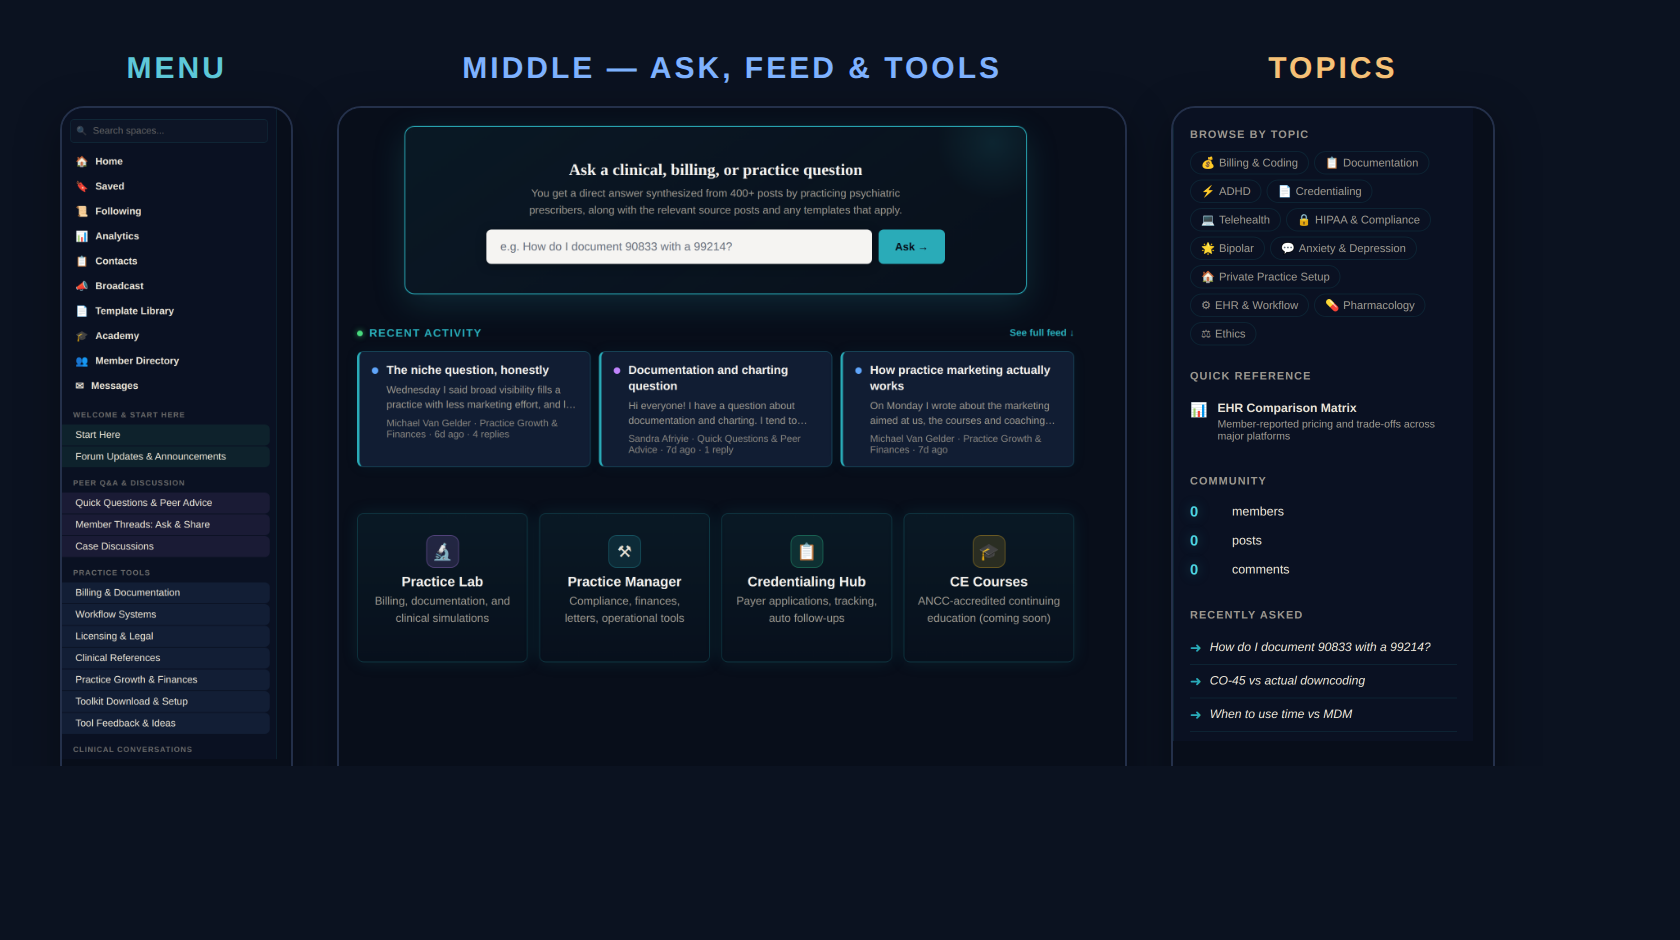
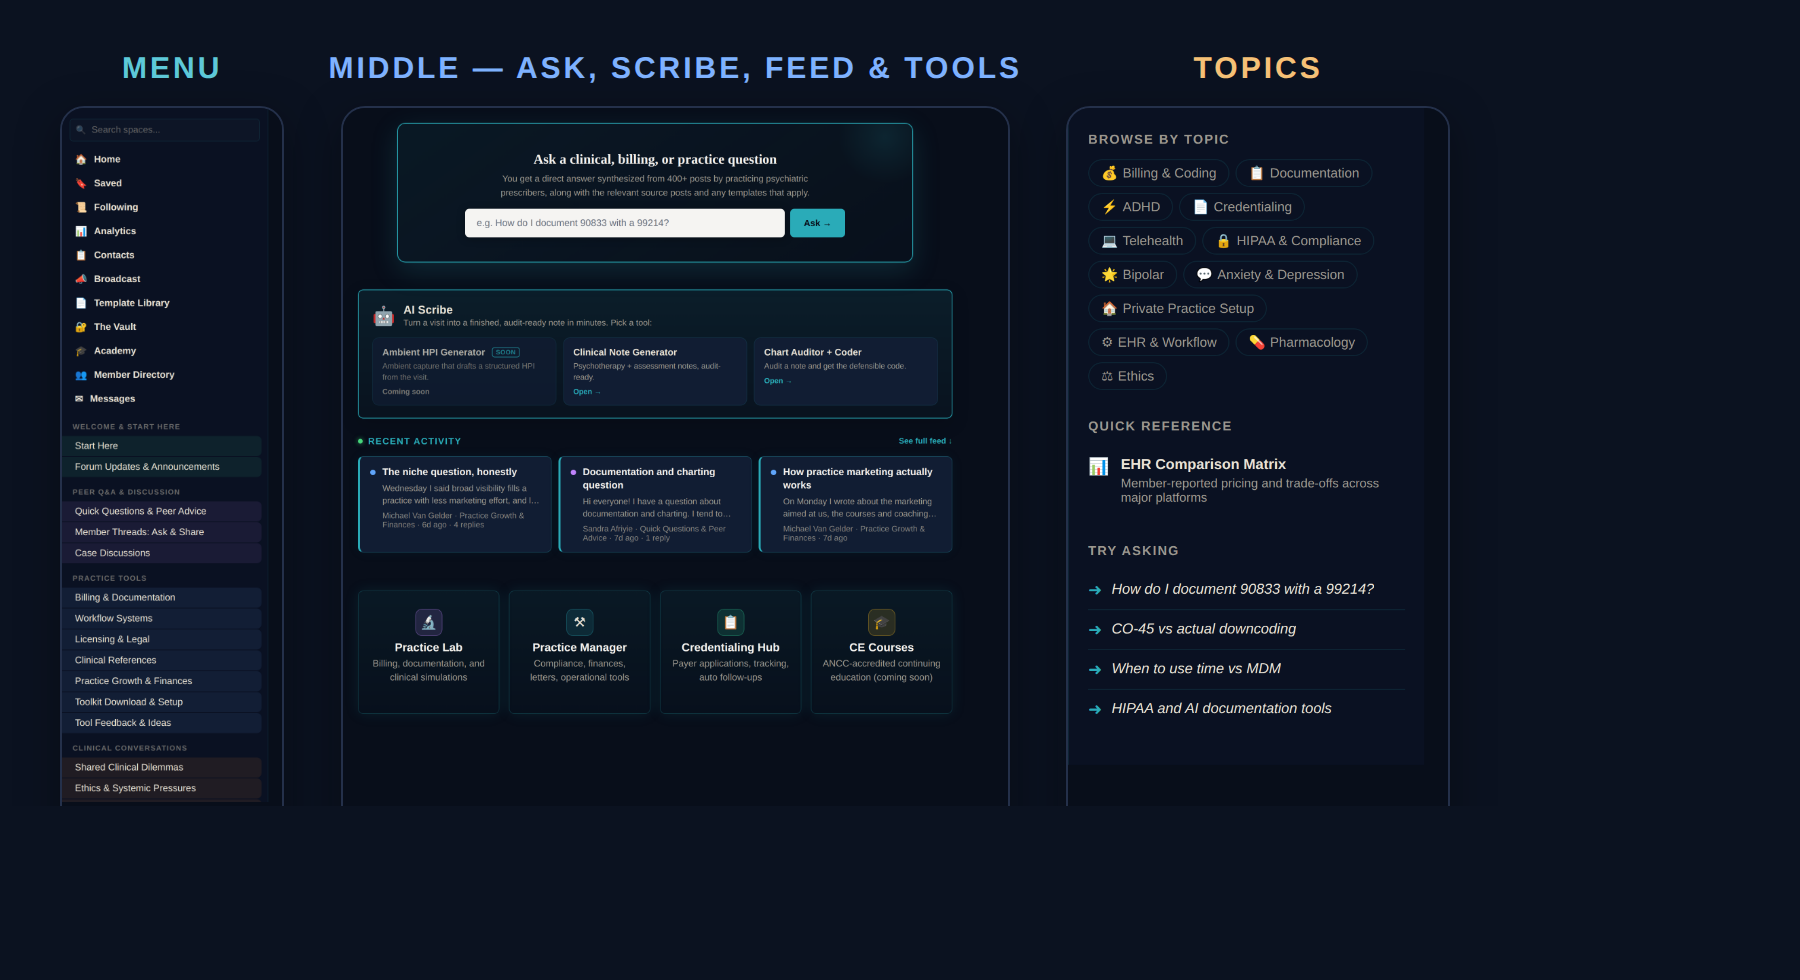
Hide Google sign-in; refresh onboarding tour to match current Home
- Hide both "Continue with Google" buttons (and the orphaned "or" divider).
  Google OAuth was never configured in Supabase, so the button was dead, and
  email-mismatch would drop migrated members to free tier. Kept in the markup
  (display:none) for a one-line re-enable once OAuth is set up.
- Refresh the welcome-tour screenshots + copy to match the current Home:
  the overview + middle now show the AI Scribe placard, the menu shows The
  Vault, and the Topics panel shows "Try asking" (the Community stat block was
  removed). Middle slide title/body now name AI Scribe; Topics slide body now
  says "try example questions under Try asking" instead of "recently asked."

Claude-Session: https://claude.ai/code/session_01PeMoiGFR2rTPdaAqvYqgw5

diff --git a/platform.html b/platform.html
@@ -1642,8 +1642,9 @@ a.file-chip:hover { border-color:var(--teal); }
       <p>Sign in to Think Beyond Practice. We will email you a secure sign-in link, no password needed.</p>
       <input type="email" id="login-email" placeholder="Your email" autocomplete="email">
       <button class="btn-primary" onclick="sendMagicLink('login')">Email me a sign-in link</button>
-      <div class="gate-or"><span>or</span></div>
-      <button class="btn-google" onclick="signInGoogle()"><span class="g-mark">G</span> Continue with Google</button>
+      <!-- Google OAuth hidden until it is configured in Supabase (avoids a dead button + email-mismatch tier issues during migration). Un-hide to re-enable. -->
+      <div class="gate-or" style="display:none"><span>or</span></div>
+      <button class="btn-google" onclick="signInGoogle()" style="display:none"><span class="g-mark">G</span> Continue with Google</button>
       <div class="gate-note" id="login-status"></div>
     </div>
 
@@ -1664,7 +1665,7 @@ a.file-chip:hover { border-color:var(--teal); }
         <option value="Other">Other</option>
       </select>
       <button class="btn-primary" onclick="signUpFree()">Browse for Free</button>
-      <button class="btn-google" onclick="signInGoogle()" style="margin-top:10px"><span class="g-mark">G</span> Continue with Google</button>
+      <button class="btn-google" onclick="signInGoogle()" style="margin-top:10px;display:none"><span class="g-mark">G</span> Continue with Google</button>
       <div class="gate-note" id="signup-status">No credit card. No commitment. Pay only when you want full access.</div>
     </div>
   </div>
@@ -5962,10 +5963,10 @@ async function promptInstall() {
 var WELCOME_KEY = 'tbp_welcomed_v3';
 var WELCOME_SLIDES = [
   { img: '/tour/tour-home-overview.png', wide: true, title: 'Welcome to your new Home', body: 'Everything lives in three places: the <b>menu</b> on the left, the <b>middle column</b> (Ask the Archive, the community Feed, and your Practice Tools), and the <b>Topics</b> panel on the right. {{WELCOME_HINT}}' },
-  { img: '/tour/tour-home-middle.png', wide: true, title: 'The middle: Ask, Feed &amp; Tools', body: 'The middle column is where the work happens: <b>Ask the Archive</b> at the top, the community <b>Feed</b> below it, and your <b>Practice Tools</b> (Practice Lab, Practice Manager, Credentialing Hub, and CE Courses).' },
+  { img: '/tour/tour-home-middle.png', wide: true, title: 'The middle: Ask, Scribe, Feed &amp; Tools', body: 'The middle column is where the work happens: <b>Ask the Archive</b> at the top, then the <b>AI Scribe</b> documentation tools, the community <b>Feed</b>, and your <b>Practice Tools</b> (Practice Lab, Practice Manager, Credentialing Hub, and CE Courses).' },
   { img: '/tour/tour-ask.png', title: 'Ask the Archive', body: 'Type any clinical, billing, or practice question into the <b>search box at the top of Home</b>. You get a <b>direct answer</b> synthesized from hundreds of prescriber posts, along with the <b>relevant posts</b> and any <b>templates</b> that apply.' },
   { img: '/tour/tour-home-menu.png', title: 'The left menu', body: 'Find your way around from {{LEFT}}: <b>Home</b>, the <b>Spaces</b>, the <b>Template Library</b>, <b>Saved</b> posts, threads you <b>Follow</b>, and <b>Messages</b>.' },
-  { img: '/tour/tour-home-topics.png', title: 'The Topics panel', body: '{{RIGHT}} lets you <b>browse by topic tag</b>, open <b>Quick References</b>, and see what colleagues have recently asked.' },
+  { img: '/tour/tour-home-topics.png', title: 'The Topics panel', body: '{{RIGHT}} lets you <b>browse by topic tag</b>, open <b>Quick References</b>, and try example questions under <b>Try asking</b>.' },
   { icon: '&#128276;', title: 'Stay in the loop', body: 'The <b>bell</b> (top-right) shows new posts, comments, mentions, and messages. You are opted into email updates by default, and you can change or turn off any of them any time.' },
   { icon: '&#128241;', title: 'Install the app', body: 'Add Think Beyond Practice to your phone home screen or desktop for one-tap access. Look for <b>&ldquo;Install app&rdquo;</b> in the left menu when your browser offers it.' }
 ];
